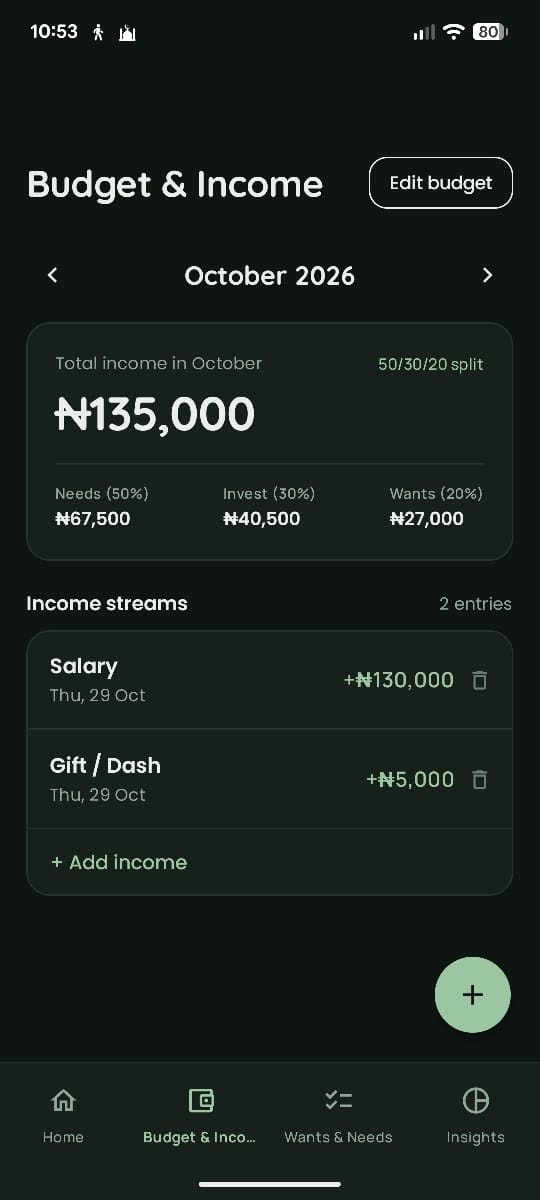
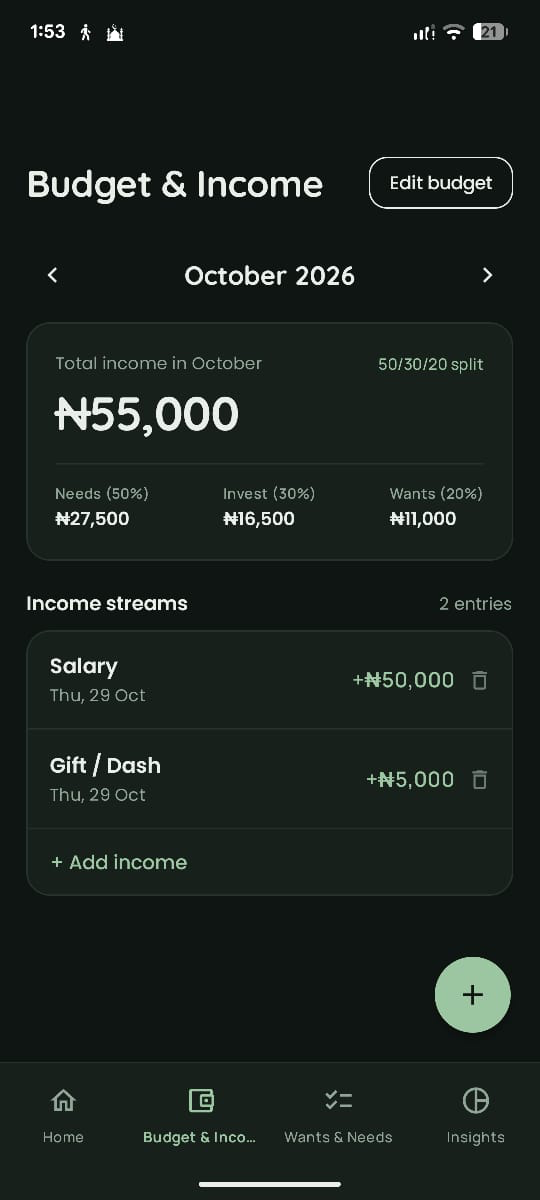
fix readme screenshots

diff --git a/README.md b/README.md
@@ -5,13 +5,13 @@
 Spendly is a calm, personal space to track daily spending and plan each month without the clutter of traditional budgeting apps.
 
 <p align="center">
-  <img src="screenshots/home.png" alt="Home Screen" width="200" />
+  <img src="screenshots/home.png?v=2" alt="Home Screen" width="200" />
   &nbsp;&nbsp;
-  <img src="screenshots/budget_income.png" alt="Budget & Income Screen" width="200" />
+  <img src="screenshots/budget_income.png?v=2" alt="Budget & Income Screen" width="200" />
   &nbsp;&nbsp;
-  <img src="screenshots/wants_needs.png" alt="Wants & Needs Screen" width="200" />
+  <img src="screenshots/wants_needs.png?v=2" alt="Wants & Needs Screen" width="200" />
   &nbsp;&nbsp;
-  <img src="screenshots/insights.png" alt="Insights Screen" width="200" />
+  <img src="screenshots/insights.png?v=2" alt="Insights Screen" width="200" />
 </p>
 
 ---
@@ -54,13 +54,13 @@ By default, Spendly uses the **50:30:20** rule (**Needs : Investment : Wants**),
 - **30% Investment** (or custom %): savings and investing, set aside first
 - **20% Wants** (or custom %): things you would like but could live without
 
-You can log individual income streams (`Salary`, `Gift / Dash`, `Side Gig`, `Other`) on the **Budget & Income** screen as money comes in—or set a monthly budget directly—and Spendly automatically calculates each bucket. Example with a monthly income of ₦120,000 on the default 50:30:20 split:
+You can log individual income streams (`Salary`, `Gift / Dash`, `Side Gig`, `Other`) on the **Budget & Income** screen as money comes in—or set a monthly budget directly—and Spendly automatically calculates each bucket. Example with a monthly income of ₦55,000 (`₦50,000 Salary` + `₦5,000 Gift / Dash`) on the default 50:30:20 split:
 
 | Category | Share | Budget |
 | --- | --- | --- |
-| Needs | 50% | ₦60,000 |
-| Investment | 30% | ₦36,000 |
-| Wants | 20% | ₦24,000 |
+| Needs | 50% | ₦27,500 |
+| Investment | 30% | ₦16,500 |
+| Wants | 20% | ₦11,000 |
 
 **Left = budget minus the total of items you have ticked as sorted (plus daily expenses in that bucket).**
 
